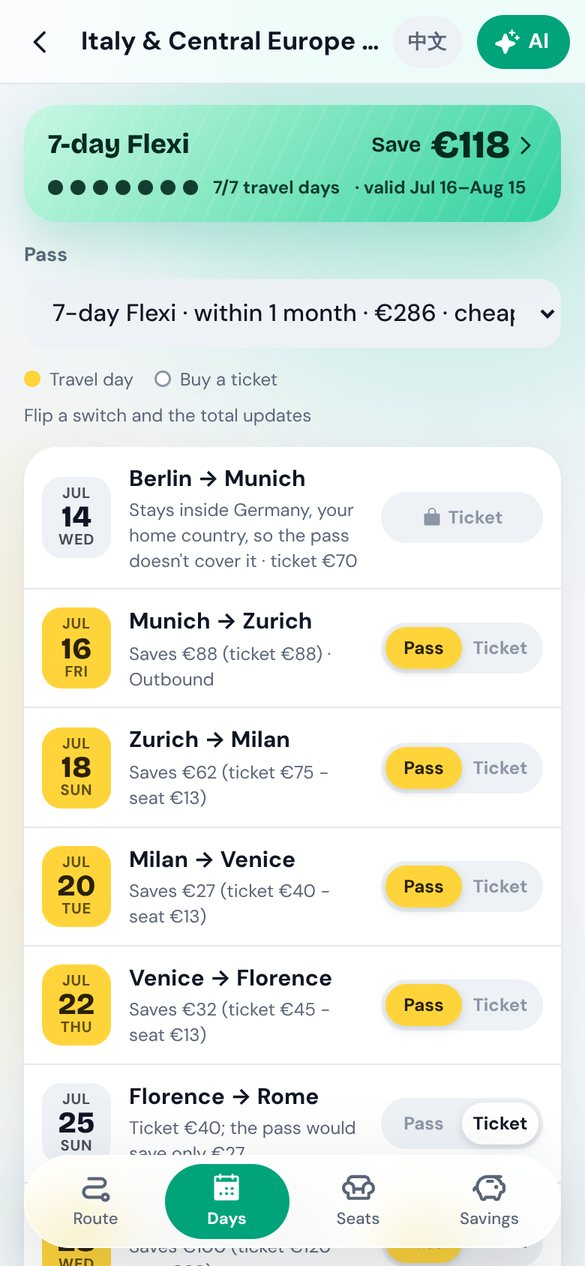
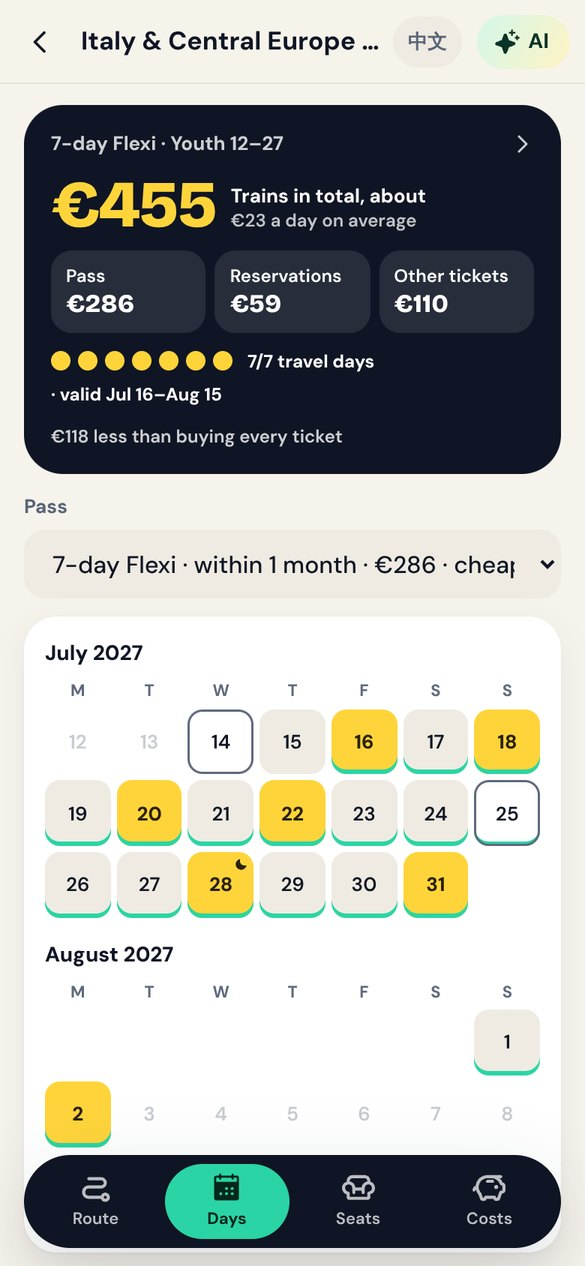
Costs page leads with the cost block; new README screenshots
- The costs page (was "Savings") starts with the same cost block as the
  other trip pages; the saving against tickets becomes one line
- Totals show the home currency hint next to the cost
- README: new screenshots and hero, "Costs" wording, eleven routes
- Browser theme colour follows the new background, light and dark
- Tick off the implementation checklist

Claude-Session: https://claude.ai/code/session_01X3oUNaUrNxp5BTm4nghsVc

diff --git a/app/src/pages/SavingsPage.tsx b/app/src/pages/SavingsPage.tsx
@@ -1,15 +1,15 @@
-import { CaretRightIcon, InfoIcon, LightbulbIcon } from '@phosphor-icons/react';
+import { CaretRightIcon, CheckCircleIcon, InfoIcon, LightbulbIcon } from '@phosphor-icons/react';
 import { useMemo } from 'react';
 import { useTranslation } from 'react-i18next';
 import { Link } from 'react-router';
 import { FxHint } from '../components/FxHint';
+import { PassBar } from '../components/PassBar';
 import { passName, passValidity } from '../components/passText';
 import { useTripContext } from '../components/TripContext';
 import ui from '../components/ui.module.css';
 import { UnverifiedNote } from '../components/UnverifiedNote';
 import { passById } from '../data/passes';
 import { findFlip } from '../engine/sensitivity';
-import { useCountUp } from '../hooks/useCountUp';
 import { addDays, formatDate } from '../model/dates';
 import type { Trip } from '../model/schema';
 import { eur, eurRange, placeName, useLang } from '../lib';
@@ -20,8 +20,6 @@ export function SavingsPage() {
   const lang = useLang();
   const { trip, analysis: a, plan, update } = useTripContext();
   const flip = useMemo(() => findFlip(trip, a), [trip, a]);
-  const saving = plan ? a.tickets.mid - plan.total : 0;
-  const shown = useCountUp(Math.round(Math.abs(saving)));
   const stop = (id: string) => placeName(trip.stops.find((s) => s.id === id)!.place, lang);
 
   if (!a.days.length) {
@@ -63,7 +61,6 @@ export function SavingsPage() {
 
   const rec = a.recommended!;
   const product = plan.result.product;
-  const used = plan.passDays.length;
   const first = plan.passDays[0];
   const worst = a.tickets.min - rec.cost.min;
   const ticketsWin = a.tickets.mid < rec.cost.mid;
@@ -101,22 +98,19 @@ export function SavingsPage() {
 
   return (
     <>
-      <section className={v.card} aria-label={t('savings.title')}>
-        <div className={v.top}>
-          <div>
-            <div className={v.kicker}>GLOBAL PASS</div>
-            <div className={v.name}>{passName(product, t)}</div>
-          </div>
-          <span className={v.who}>
-            {t(`wizard.${trip.traveller.ageGroup}`)} ·{' '}
-            {t(trip.traveller.travelClass === 1 ? 'wizard.first' : 'wizard.second')}
-          </span>
-        </div>
-        <div className={v.big} aria-live="polite">
-          <small>{saving >= 0 ? t('pass.save') : t('pass.costsMore')}</small>€{shown}
-          <FxHint eur={Math.abs(saving)} />
-        </div>
-        <div className={v.subline}>
+      <PassBar
+        plain
+        extra={
+          first &&
+          t('pass.validRange', {
+            from: formatDate(first, lang),
+            to: formatDate(addDays(first, product.validityDays - 1), lang),
+          })
+        }
+      />
+      <p className={v.note}>
+        <CheckCircleIcon size={18} weight="duotone" aria-hidden="true" />
+        <span>
           {ticketsWin
             ? t('savings.ticketsWin', { amount: eur(rec.cost.mid - a.tickets.mid) })
             : plan.result === rec
@@ -125,27 +119,8 @@ export function SavingsPage() {
                   name: passName(rec.product, t),
                   amount: eur(plan.total - rec.cost.mid),
                 })}
-        </div>
-        <div className={v.foot}>
-          {product.kind === 'flexi' && (
-            <span className={v.dots} aria-label={t('pass.daysUsed', { used, total: product.days })}>
-              {Array.from({ length: Math.max(product.days, used) }, (_, i) => (
-                <i key={i} className={i < used ? (i >= product.days ? v.over : v.on) : ''} />
-              ))}
-            </span>
-          )}
-          <span>
-            {product.kind === 'flexi'
-              ? `${t('pass.daysUsed', { used, total: product.days })} · `
-              : ''}
-            {first &&
-              t('pass.validRange', {
-                from: formatDate(first, lang),
-                to: formatDate(addDays(first, product.validityDays - 1), lang),
-              })}
-          </span>
-        </div>
-      </section>
+        </span>
+      </p>
 
       <p className={`${v.note} ${worst < 0 ? v.warn : ''}`}>
         <LightbulbIcon size={18} weight="duotone" aria-hidden="true" />

diff --git a/app/src/components/PassBar.tsx b/app/src/components/PassBar.tsx
@@ -2,13 +2,14 @@ import { CaretRightIcon, WarningCircleIcon } from '@phosphor-icons/react';
 import { useTranslation } from 'react-i18next';
 import { Link } from 'react-router';
 import { eur } from '../lib';
+import { FxHint } from './FxHint';
 import { tripRange } from '../model/trip';
 import { passName } from './passText';
 import p from './PassBar.module.css';
 import { useTripContext } from './TripContext';
 
 /** What the trains of this trip cost: the pass, seat reservations and other tickets. */
-export function PassBar({ extra }: { extra?: string }) {
+export function PassBar({ extra, plain }: { extra?: string | false; plain?: boolean }) {
   const { t } = useTranslation();
   const { trip, plan, analysis } = useTripContext();
   if (!plan) {
@@ -43,20 +44,19 @@ export function PassBar({ extra }: { extra?: string }) {
   const label = unpriced
     ? t('pass.totalAtLeast')
     : t(trip.traveller.count > 1 ? 'pass.totalEach' : 'pass.total');
-  return (
-    <Link
-      to={`/trip/${trip.id}/savings`}
-      className={p.bar}
-      aria-label={`${label} ${eur(plan.total)}. ${t('pass.seeSavings')}`}
-    >
+  const body = (
+    <>
       <span className={p.name}>
         {passName(product, t)} · {t(`wizard.${trip.traveller.ageGroup}`)}
-        <CaretRightIcon size={16} weight="bold" />
+        {!plain && <CaretRightIcon size={16} weight="bold" />}
       </span>
       <span className={p.money}>
         <b>{eur(plan.total)}</b>
         <span>
-          {label}
+          <span>
+            {label}
+            <FxHint eur={plan.total} />
+          </span>
           {!unpriced && (
             <small>
               {t('pass.perDay', { amount: eur(plan.total / Math.max(1, tripRange(trip).days)) })}
@@ -101,6 +101,16 @@ export function PassBar({ extra }: { extra?: string }) {
       {compared && (
         <span className={p.hint}>{t('pass.savesVsTickets', { amount: eur(saving) })}</span>
       )}
+    </>
+  );
+  if (plain) return <section className={p.bar}>{body}</section>;
+  return (
+    <Link
+      to={`/trip/${trip.id}/savings`}
+      className={p.bar}
+      aria-label={`${label} ${eur(plan.total)}. ${t('pass.seeSavings')}`}
+    >
+      {body}
     </Link>
   );
 }

diff --git a/app/src/pages/SavingsPage.module.css b/app/src/pages/SavingsPage.module.css
@@ -1,107 +1,3 @@
-.card {
-  position: relative;
-  overflow: hidden;
-  isolation: isolate;
-  border-radius: var(--r-lg);
-  padding: 18px;
-  color: var(--pass-ink);
-  background: var(--pass-grad);
-  box-shadow: var(--pass-shadow);
-}
-.card::before {
-  content: '';
-  position: absolute;
-  inset: 0;
-  z-index: -1;
-  background:
-    radial-gradient(circle at 88% 12%, rgba(255, 255, 255, 0.35), transparent 42%),
-    repeating-linear-gradient(115deg, rgba(255, 255, 255, 0.08) 0 2px, transparent 2px 14px);
-}
-.card::after {
-  content: '';
-  position: absolute;
-  right: -60px;
-  bottom: -80px;
-  width: 210px;
-  height: 210px;
-  border-radius: 50%;
-  border: 26px solid rgba(255, 255, 255, 0.14);
-  z-index: -1;
-}
-.top {
-  display: flex;
-  justify-content: space-between;
-  align-items: flex-start;
-  gap: 12px;
-}
-.kicker {
-  font-size: 11px;
-  font-weight: 800;
-  letter-spacing: 0.14em;
-  opacity: 0.8;
-}
-.name {
-  font-family: var(--f-display);
-  font-size: 22px;
-  font-weight: 800;
-  line-height: 1.15;
-}
-.who {
-  font-size: 12px;
-  font-weight: 700;
-  background: rgba(255, 255, 255, 0.25);
-  padding: 5px 10px;
-  border-radius: 999px;
-  white-space: nowrap;
-}
-.big {
-  font-family: var(--f-display);
-  font-weight: 800;
-  font-size: 50px;
-  line-height: 1;
-  letter-spacing: -0.03em;
-  margin-top: 14px;
-  font-variant-numeric: tabular-nums;
-}
-.big small {
-  font-size: 20px;
-  font-weight: 700;
-  letter-spacing: 0;
-  margin-right: 6px;
-}
-.subline {
-  font-size: 13px;
-  opacity: 0.85;
-  margin-top: 6px;
-}
-.foot {
-  display: flex;
-  justify-content: space-between;
-  align-items: center;
-  gap: 8px 12px;
-  margin-top: 16px;
-  flex-wrap: wrap;
-  font-size: 12px;
-  font-weight: 700;
-}
-.dots {
-  display: flex;
-  gap: 6px;
-}
-.dots i {
-  width: 11px;
-  height: 11px;
-  border-radius: 50%;
-  background: var(--pass-ink);
-  opacity: 0.22;
-}
-.dots i.on {
-  opacity: 1;
-}
-.dots i.over {
-  opacity: 1;
-  background: var(--danger);
-}
 .note {
   display: flex;
   gap: 10px;

diff --git a/app/src/App.test.tsx b/app/src/App.test.tsx
@@ -50,7 +50,7 @@ describe('home', () => {
     expect(within(ticket).getByText('PRA')).toBeInTheDocument();
     expect(within(ticket).getByText('20 days')).toBeInTheDocument();
     expect(within(ticket).getByText(/^€\d+$/)).toBeInTheDocument();
-    expect(within(ticket).getByText('trains, about')).toBeInTheDocument();
+    expect(within(ticket).getByText('for trains')).toBeInTheDocument();
   });
 
   it('renders in Chinese', async () => {
@@ -103,9 +103,13 @@ describe('trip pages', () => {
     const trip = makeSampleTrip('en');
     await saveTrip(trip);
     at(`/trip/${trip.id}/days`);
-    expect(await screen.findByText(/^≈ \$\d+/)).toBeInTheDocument();
-    expect(fetchMock.mock.calls[0]![0]).toContain('api.frankfurter.dev/v1/latest?base=EUR');
-    setCurrency(null);
+    try {
+      // Next to the total in the cost block and in the plan total below.
+      expect((await screen.findAllByText(/^≈ \$\d+/)).length).toBeGreaterThan(0);
+      expect(fetchMock.mock.calls[0]![0]).toContain('api.frankfurter.dev/v1/latest?base=EUR');
+    } finally {
+      setCurrency(null);
+    }
   });
 
   it('changes the traveller after the trip is made', async () => {

diff --git a/app/index.html b/app/index.html
@@ -3,7 +3,8 @@
   <head>
     <meta charset="UTF-8" />
     <meta name="viewport" content="width=device-width, initial-scale=1, viewport-fit=cover" />
-    <meta name="theme-color" content="#00A37A" />
+    <meta name="theme-color" content="#F6F3EC" media="(prefers-color-scheme: light)" />
+    <meta name="theme-color" content="#0B0E14" media="(prefers-color-scheme: dark)" />
     <meta name="description" content="Plan your Interrail trip. Make the pass pay off." />
     <link rel="icon" href="/favicon.ico" sizes="48x48" />
     <link rel="icon" href="/favicon.svg" type="image/svg+xml" />

diff --git a/app/vite.config.ts b/app/vite.config.ts
@@ -14,8 +14,8 @@ export default defineConfig({
         name: 'Passhopper',
         short_name: 'Passhopper',
         description: 'Plan your Interrail trip. Make the pass pay off.',
-        theme_color: '#00A37A',
-        background_color: '#F3F5F8',
+        theme_color: '#F6F3EC',
+        background_color: '#F6F3EC',
         display: 'standalone',
         start_url: '.',
         scope: '.',

diff --git a/app/src/components/PassBar.module.css b/app/src/components/PassBar.module.css
@@ -33,7 +33,7 @@
   line-height: 0.95;
   color: var(--sun);
 }
-.money span {
+.money > span {
   display: flex;
   flex-direction: column;
   font-size: 13px;

diff --git a/README.md b/README.md
@@ -16,7 +16,7 @@
 
 It runs entirely in your browser. No sign-up, no tracking, and your trips never leave your device.
 
-<p align="center"><img src="docs/screenshots/hero.jpg" alt="Route with map, travel days, savings and the AI assistant on phone screens" width="100%"></p>
+<p align="center"><img src="docs/screenshots/hero.jpg" alt="Home, route with map, travel days and the AI assistant on phone screens" width="100%"></p>
 
 ## Why Passhopper
 
@@ -25,18 +25,18 @@ Most trip planners treat a rail pass like any other ticket. The questions that d
 - **Which days should use the pass?** A Flexi pass has a fixed number of travel days. Passhopper picks the days that save the most, and you can flip any day between "pass" and "ticket" and watch the total update.
 - **Does the pass even cover this train?** If you live in Europe, your pass covers only one journey out of your home country and one back in. A night train uses one travel day, but not on the pass's last valid day. Some operators aren't covered at all. These rules are built in.
 - **What will the reservations cost?** High-speed and night trains often need a seat reservation on top of the pass. Fees come from the official Interrail fee pages, and the app tells you where to book and which trains sell out.
-- **Is the pass actually cheaper?** The savings page compares every pass with buying all tickets, at cheap, typical and flexible fares. It tells you when cheap advance tickets would beat the pass, and which train's price decides the answer.
+- **Is the pass actually cheaper?** The costs page compares every pass with buying all tickets, at cheap, typical and flexible fares. It tells you when cheap advance tickets would beat the pass, and which train's price decides the answer.
 
 ## Features
 
 |                                |                                                                                                                                                                                                                                         |
 | ------------------------------ | --------------------------------------------------------------------------------------------------------------------------------------------------------------------------------------------------------------------------------------- |
-| 🧭 **Route ideas**             | Ten ready-made routes (classic Amsterdam–Budapest, Italy, the Alps, Scandinavia, the Balkans and more) with what to see in each city and what to know about the trains. Use one as it is or as a starting point.                        |
+| 🧭 **Route ideas**             | Eleven ready-made routes (classic Amsterdam–Budapest, Italy, the Alps, Scandinavia, the Balkans and more) with what to see in each city and what to know about the trains. Use one as it is or as a starting point.                     |
 | 🗺 **Route**                   | Metro-map timeline and a map of your trip. Nights per city, drag to reorder, night trains, notes for each city.                                                                                                                         |
 | 🚆 **Real timetables**         | Search actual trains between your cities with [Transitous](https://transitous.org), an open-data journey planner, or find trains for every leg of the trip in one tap. Covers high-speed, international and night trains.               |
 | 📅 **Travel days**             | A calendar of your trip and the best days for your pass, worked out by the rules engine, with a switch on every day. Works before you enter any prices: long journeys get the travel days.                                              |
 | 💺 **Seat reservations**       | What needs a reservation and what it costs, a to-do list, and a place to note your booking and seat.                                                                                                                                    |
-| 💶 **Savings**                 | Every pass compared with buying tickets, including the worst case and the most price-sensitive train. Totals can also show in your own currency.                                                                                        |
+| 💶 **Costs**                   | What the trains cost in total (pass, reservations, other tickets) and every pass compared with buying tickets, including the worst case and the most price-sensitive train. Totals can also show in your own currency.                  |
 | ⚠ **Checks**                  | Warnings for overlapping trains, tight changes, missed connections and very long days.                                                                                                                                                  |
 | 🧳 **On the road**             | Home shows the next train (time, train number, your seat) and where you sleep tonight. Add every train and stay to your phone's calendar, or print the itinerary / save it as a PDF.                                                    |
 | ✨ **AI assistant (optional)** | Describe a trip in one sentence and get a first route, or ask for changes ("slow down in Italy"). Every change is previewed with its cost before you apply it, and you can undo it. Searches the web for strikes and engineering works. |

diff --git a/README.zh-CN.md b/README.zh-CN.md
@@ -10,7 +10,7 @@
 
 全部在浏览器里运行：不用注册，没有追踪，行程只保存在你自己的设备上。网页右上角可以切换中文。
 
-<p align="center"><img src="docs/screenshots/hero.jpg" alt="路线地图、旅行日、回本和 AI 助手界面" width="100%"></p>
+<p align="center"><img src="docs/screenshots/hero.jpg" alt="首页、路线地图、旅行日和 AI 助手界面" width="100%"></p>
 
 ## 为什么做这个
 
@@ -19,18 +19,18 @@
 - **哪几天用通票？** Flexi 通票的旅行日有限。Passhopper 会挑出最省钱的几天，每一天都可以手动切换"通票"或"买票"，总价实时更新。
 - **这趟车通票能用吗？** 欧洲居民在居住国只能出境、入境各用一次；夜车只算出发当天，但有效期最后一天不能坐夜车回家；有些运营商根本不收通票。这些规则都已内置。
 - **订座要花多少钱？** 高铁和夜车常常要另付订座费。费用取自 Interrail 官网的订座费页面，还会告诉你去哪订、哪些车容易订满。
-- **通票真的更便宜吗？** 回本页把每种通票和全部单独买票做对比，按特价、常见、灵活三档票价分别计算，并告诉你哪一段票价最影响结论。
+- **通票真的更便宜吗？** 花费页把每种通票和全部单独买票做对比，按特价、常见、灵活三档票价分别计算，并告诉你哪一段票价最影响结论。
 
 ## 功能
 
 |                        |                                                                                                                                                 |
 | ---------------------- | ----------------------------------------------------------------------------------------------------------------------------------------------- |
-| 🧭 **路线推荐**        | 10 条现成路线（经典阿姆斯特丹到布达佩斯、意大利、阿尔卑斯、北欧、巴尔干等），写明每个城市玩什么、坐车要注意什么，可以照着用，也可以当起点修改。 |
+| 🧭 **路线推荐**        | 11 条现成路线（经典阿姆斯特丹到布达佩斯、意大利、阿尔卑斯、北欧、巴尔干等），写明每个城市玩什么、坐车要注意什么，可以照着用，也可以当起点修改。 |
 | 🗺 **路线**            | 地铁线路图式的时间线，加上路线地图。每个城市住几晚、拖动调整顺序、夜车、城市备注。                                                              |
 | 🚆 **真实时刻表**      | 用开源数据的 [Transitous](https://transitous.org) 查询城市之间的真实车次，也可以一键给整趟行程的每一段配好车次，包括高铁、跨国列车和夜车。      |
 | 📅 **旅行日**          | 行程日历，加上规则引擎算出的最划算旅行日，每天都能手动切换。不填票价也能用：长途的日子优先用旅行日。                                            |
 | 💺 **订座**            | 哪些车要订座、要多少钱，待办清单，记录订座号和座位。                                                                                            |
-| 💶 **回本**            | 每种通票与全部买票的对比，包括最坏情况和最影响结论的车次。总价可同时显示你的本国货币。                                                          |
+| 💶 **花费**            | 这趟火车一共花多少（通票、订座费、另买的车票），以及每种通票与全部买票的对比，包括最坏情况和最影响结论的车次。总价可同时显示你的本国货币。      |
 | ⚠ **检查**            | 车次时间重叠、换乘太紧、赶不上下一班车、一天坐车太久时给出提示。                                                                                |
 | 🧳 **出行中**          | 首页显示下一趟车（时间、车次、你的座位）和今晚住哪里。一键把所有车次和住宿导入手机日历，或打印行程单、存成 PDF。                                |
 | ✨ **AI 助手（可选）** | 一句话生成第一版路线，或者让它改行程（"意大利那段别太赶"）。每次改动都先预览费用变化，确认后才应用，并且可以撤销。还能联网查罢工和施工信息。    |

diff --git a/docs/UI-DESIGN.md b/docs/UI-DESIGN.md
@@ -4,6 +4,8 @@
 配套文档：[DEVELOPMENT.md](./DEVELOPMENT.md)（功能编号 F0 至 F6 对应开发文档 §2）
 可点击原型：[`prototype/index.html`](../prototype/index.html)。本文档与原型不一致时，以本文档为准，并同步修改原型。
 
+> **2026-11-15 说明**：视觉样式已按 [UI-OPTIMIZATION.md](./UI-OPTIMIZATION.md) 第 4 节和第 10 节改版（暖米色底、车票式行程卡片、墨色花费块、实心车次胶囊、贴纸标签）。本文档 §3 的令牌表和组件说明还是旧样式，色值以 `app/src/styles/tokens.css` 为准。
+
 ### 修订记录
 | 版本 | 内容 |
 |---|---|
